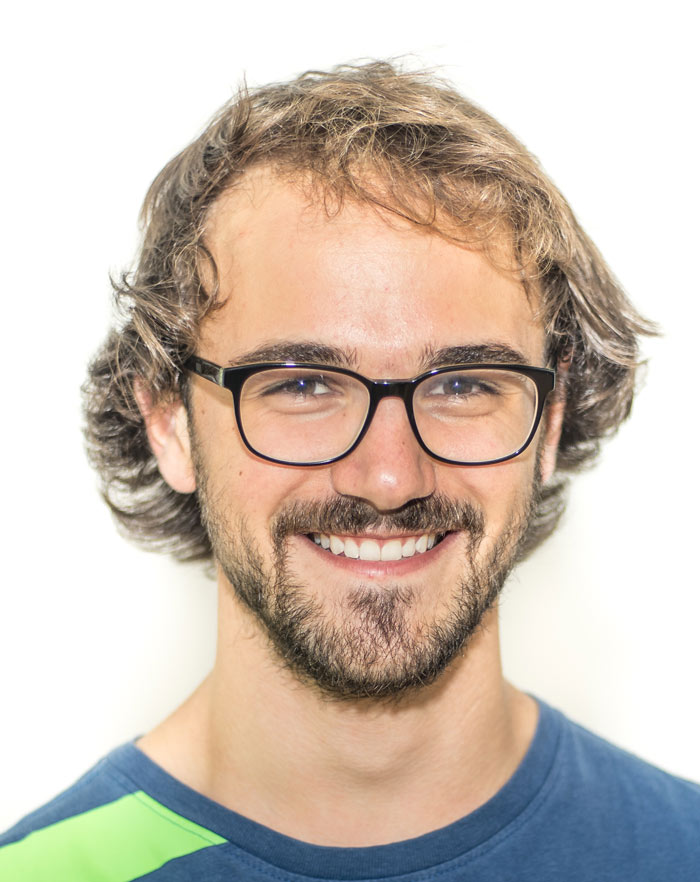
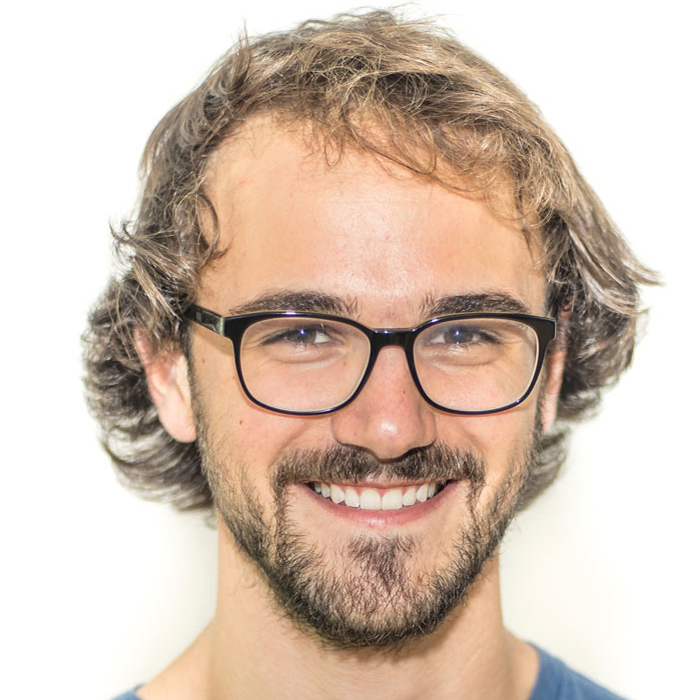
add better feature images, rm duplicate images

diff --git a/src/pages/about.jsx b/src/pages/about.jsx
@@ -13,7 +13,7 @@ const Header = () => (
         <div className="col-12 col-lg-8 offset-lg-2">
 
           <h1>About Us</h1>
-          <p className="fs-20 opacity-70">Find out about our mission, services and meet our great team</p>
+          <p className="fs-20 opacity-70">Find out about our mission and meet our team and advisors</p>
 
         </div>
       </div>
@@ -24,44 +24,47 @@ const Header = () => (
 
 type ProfileProps = {
   name: string,
+  func: string,
+  description: string,
 }
 type FounderProps = {
   ...$Exact<ProfileProps>,
+  twitterlink: string,
+  linkedinlink: string,
   img: Object,
 }
-const Founder = ({ name, img }: FounderProps) => (
+type InvestorProps = {
+  ...$Exact<ProfileProps>,
+  img: Object,
+}
+
+const Founder = ({ name, func, description, img, twitterlink, linkedinlink }: FounderProps) => (
   <div className="col-12 col-md-6 col-lg-4 team-1">
     {img && <Img {...img} alt={name} />}
-    <h6>{name} <small>Co-Founder &amp; CEO</small></h6>
-    <p>Uniquely grow resource maximizing outsourcing for excellent core competencies.</p>
+    <h6>{name} <small>{func}</small></h6>
+    <p>{description}</p>
     <div className="social social-boxed social-rounded social-gray">
-      <a className="social-twitter" href="https://twitter.com"><i className="fa fa-twitter" /></a>
-      <a className="social-linkedin" href="https://linkedin.com"><i className="fa fa-linkedin" /></a>
+      <a className="social-twitter" href={twitterlink}><i className="fa fa-twitter" /></a>
+      <a className="social-linkedin" href={linkedinlink}><i className="fa fa-linkedin" /></a>
     </div>
   </div>
 );
 
-const Investor = ({ name, img }: FounderProps) => (
+const Investor = ({ name, func, description, img }: InvestorProps) => (
   <div className="col-12 col-md-4 team-2">
     {img && <Img {...img} alt={name} />}
     <h5>{name}</h5>
-    <small>Co-Founder &amp; CTO</small>
-    <p>
-      So firmament sea them sea.
-      Set saying land signs had the us replenish seed moved rule, place let.
-    </p>
+    <small>{func}</small>
+    <p>{description}</p>
   </div>
 );
 
 
-const Advisor = ({ name }: ProfileProps) => (
+const Advisor = ({ name, func, description }: ProfileProps) => (
   <div className="col-12 col-md-6 team-2">
     <h5>{name}</h5>
-    <small>Co-Founder &amp; CTO</small>
-    <p>
-      So firmament sea them sea.
-      Set saying land signs had the us replenish seed moved rule, place let.
-    </p>
+    <small>{func}</small>
+    <p>{description}</p>
   </div>
 );
 
@@ -111,9 +114,30 @@ const IndexPage = ({ data }: Object) => (
 
 
           <div className="row gap-y">
-            <Founder name="Timo Horstschaefer" img={data.timo} />
-            <Founder name="Ben-Elias Brandt" img={data.ben} />
-            <Founder name="Yoko Spirig" img={data.yoko} />
+            <Founder
+              name="Timo Horstschaefer"
+              func=""
+              description=""
+              twitterlink=""
+              linkedinlink=""
+              img={data.timo}
+            />
+            <Founder
+              name="Ben-Elias Brandt"
+              func=""
+              description=""
+              twitterlink=""
+              linkedinlink=""
+              img={data.ben}
+            />
+            <Founder
+              name="Yoko Spirig"
+              func=""
+              description=""
+              twitterlink=""
+              linkedinlink=""
+              img={data.yoko}
+            />
           </div>
 
         </div>
@@ -130,14 +154,37 @@ const IndexPage = ({ data }: Object) => (
 
 
           <div className="row gap-y">
-            <Investor name="Myke Naef" img={data.myke} />
-            <Investor name="Paul E. Sevinc" img={data.paul} />
-            <Investor name="Luzius Meisser" img={data.luzius} />
+            <Investor
+              name="Myke Naef"
+              func=""
+              description=""
+              img={data.myke}
+            />
+            <Investor
+              name="Paul E. Sevinc"
+              func=""
+              description=""
+              img={data.paul}
+            />
+            <Investor
+              name="Luzius Meisser"
+              func=""
+              description=""
+              img={data.luzius}
+            />
           </div>
 
           <div className="row gap-y col-12 col-md-10 offset-md-1">
-            <Advisor name="Adrian Buehrer" />
-            <Advisor name="Elena Walder-Schiavone" />
+            <Advisor
+              name="Adrian Buehrer"
+              func=""
+              description=""
+            />
+            <Advisor
+              name="Elena Walder-Schiavone"
+              func=""
+              description=""
+            />
           </div>
 
 
@@ -152,17 +199,17 @@ export default IndexPage;
 // eslint-disable-next-line no-undef
 export const query = graphql`
   query AboutQuery {
-    ben: imageSharp(id: { regex: "/ben_edit.jpg/" }) {
+    ben: imageSharp(id: { regex: "/ben.jpg/" }) {
       resolutions(width: 255, height: 255) {
         ...GatsbyImageSharpResolutions
       }
     }
-    yoko: imageSharp(id: { regex: "/yoko_edit.jpg/" }) {
+    yoko: imageSharp(id: { regex: "/yoko.jpg/" }) {
       resolutions(width: 255, height: 255) {
         ...GatsbyImageSharpResolutions
       }
     }
-    timo: imageSharp(id: { regex: "/timo_edit.jpg/" }) {
+    timo: imageSharp(id: { regex: "/timo.jpg/" }) {
       resolutions(width: 255, height: 255) {
         ...GatsbyImageSharpResolutions
       }
